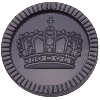
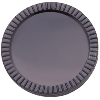
added unkinged version for regular pieces, fixed bug with 'ghost jumping', fixed tracking of score displaying incorrectly, deleted various console logs that were for bug testing

diff --git a/scripts/app.js b/scripts/app.js
@@ -20,29 +20,23 @@ window.addEventListener("DOMContentLoaded", () => {
     document.querySelector("#regularTheme").addEventListener("click", gameTheme)
     document.querySelector("#synthTheme").addEventListener("click", gameTheme)
     
-    // setup play button
+    // setup push to start
     document.getElementById("playButton").addEventListener("click", startButton)
-
-    // TEST
-    // setupGameBoard()
 
     // track amount of pieces on the board
     let red = document.getElementsByClassName("red").length
-    console.log(`Number of Red pieces: ${red}`) // DELETE
     let blk = document.getElementsByClassName("blk").length
-    console.log(`Number of Blk pieces: ${blk}`) // DELETE
-
-    document.getElementById("player1").innerText = `Black Pieces: ${blk}`
-    document.getElementById("player2").innerText = `Red Pieces: ${red}`
 
     
+    
     // ~ FUNCTIONS ~ //
-
+    
     function trackScore() {
+        // used to update scores
         red = document.getElementsByClassName("red").length
-        console.log(`Number of Red pieces: ${red}`) // DELETE
+        document.getElementById("player2").innerText = `Red Pieces: ${red}`
         blk = document.getElementsByClassName("blk").length
-        console.log(`Number of Blk pieces: ${blk}`) // DELETE
+        document.getElementById("player1").innerText = `Black Pieces: ${blk}`
 
         if(red == 0) {
             document.getElementById("winningPlayer").innerText = "Black wins!"
@@ -104,23 +98,28 @@ window.addEventListener("DOMContentLoaded", () => {
         // clear board of event listeners to stop player from moving to location they can't move to
         divEventRemove()
         if(target.path[0].classList.contains(playerTurn)) {
+            // this prevents chips from being "ghost jumped" bug that caused
+            // chips that were previously able to be jumped but weren't to be jumped
+            // by any chip moving to that location. (Previously under enemiesToJump[i].remove() in the divEventRemove())
+            enemiesToJump = []
+            enemiesLoc = []
+
             // find location on board
             let loc = Number(target.path[1].id)
     
             // possible movements
             let directionalArr = [-7, -9, 9, 7]
-            // TEST - might not be needed
+            // MSG2SELF - could be refactored
             let mvUpRight = loc - 7
             let mvUpLeft = loc - 9
             let mvDownRight = loc + 9
             let mvDownLeft = loc + 7
-            // ETST - might not be needed
+            // ENDMSG2SELF - could be refactored
             let mvDirArr = []
             let dblMvDirArr = []
             let movesAvail = []
-    
-            // check if piece is kinged
-            // TEST - was originally = false, will now get set to the return of function isKinged()
+
+            // checking if piece is kinged
             let pieceKinged = isKinged(loc, target.path[0])
     
             if(pieceKinged == false && target.path[0].classList.contains('red')) {
@@ -132,7 +131,7 @@ window.addEventListener("DOMContentLoaded", () => {
                 mvDirArr = [mvUpRight, mvUpLeft]
                 dblMvDirArr = [mvUpRight, mvUpLeft]
             } else {
-                // TEST - this will handle the pieces being kinged
+                // this will handle the pieces being kinged
                 mvDirArr = [mvUpRight, mvUpLeft, mvDownRight, mvDownLeft]
                 dblMvDirArr = [mvUpRight, mvUpLeft, mvDownRight, mvDownLeft]
             }
@@ -146,7 +145,6 @@ window.addEventListener("DOMContentLoaded", () => {
                 } else if(tilesArr[mvDirArr[i]].className == playableGameTile && tilesArr[mvDirArr[i]].firstChild != null && tilesArr[mvDirArr[i]].firstChild.className != target.path[0].className) {
                     // space is occupied by enemy
                     // double distance to see if spot past enemy is open
-                    console.log(tilesArr[mvDirArr[i] + directionalArr[i]]) // DELETE
                     if(tilesArr[mvDirArr[i] + directionalArr[i]] == null) {
                         continue
                     } else if(tilesArr[mvDirArr[i] + directionalArr[i]].className == playableGameTile && tilesArr[mvDirArr[i] + directionalArr[i]].firstChild == null) {
@@ -159,13 +157,11 @@ window.addEventListener("DOMContentLoaded", () => {
             }
             
             if(movesAvail.length == 0){
-                alert("That piece has no moves available.") // DELETE
+                alert("That piece has no moves available.")
             } else {
                 pieceToMove = target.path[0]
                 availableLocations(movesAvail)
             }
-    
-            console.log(movesAvail) // TEST - printout to see if movesAvail is correct
     
             // iterate through movesAvail and setup event listeners
             for(let i = 0; i < movesAvail.length; i++) {
@@ -180,11 +176,9 @@ window.addEventListener("DOMContentLoaded", () => {
         for(let i = 0; i < enemiesLoc.length; i++) {
             if(newTarget.path[0] == enemiesLoc[i]) {
                 enemiesToJump[i].remove()
-                enemiesToJump = []
-                enemiesLoc = []
             }
         }
-
+        
         // change player's turn
         if(playerTurn == "blk") {
             playerTurn = "red"
@@ -201,15 +195,16 @@ window.addEventListener("DOMContentLoaded", () => {
 
     function isKinged(loc, piece) {
         if(piece.classList.contains("kinged")) {
-            console.log("Blk was already kinged") // DELETE
             return true
         }
         if(piece.className == "blk" && loc < 7) {
-            console.log("BLK KINGED") // DELETE
+            // change piece image to kinged image
+            piece.src = blkKingPieceImg
             piece.classList.add("kinged")
             return true
         } else if(piece.className == "red" && loc > 56) {
-            console.log("RED KINGED") // DELETE
+            // change piece image to kinged image
+            piece.src = redKingPieceImg
             piece.classList.add("kinged")
             return true
         }
@@ -233,6 +228,7 @@ window.addEventListener("DOMContentLoaded", () => {
         // change gameStart style display to none
         document.getElementById("gameStart").style.display = "none"
         setupGameBoard()
+        trackScore()
     }
 
     function gameTheme(themeChoice) {
